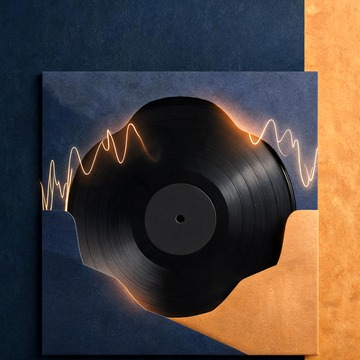
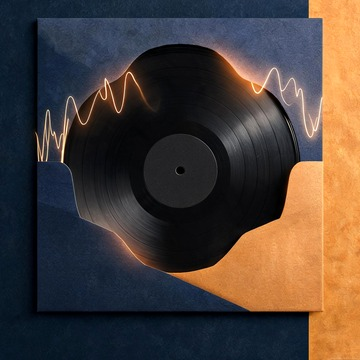
fix(aod): center fallback vinyl artwork

diff --git a/magic_dial_media_artwork.py b/magic_dial_media_artwork.py
@@ -26,7 +26,7 @@ from PIL import Image, ImageDraw
 
 ART_SIZE = 360
 RGB565_BYTES = ART_SIZE * ART_SIZE * 2
-ART_CACHE_VERSION = "cover-v4"
+ART_CACHE_VERSION = "cover-v5"
 DEFAULT_COVER_FILENAME = "default_album_cover.jpg"
 
 
